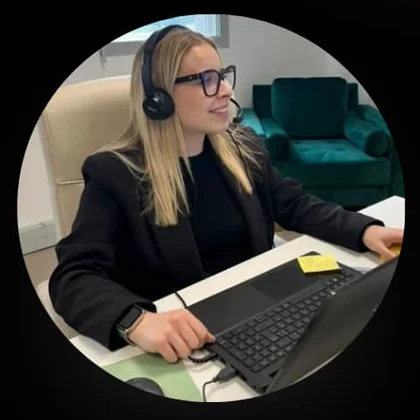
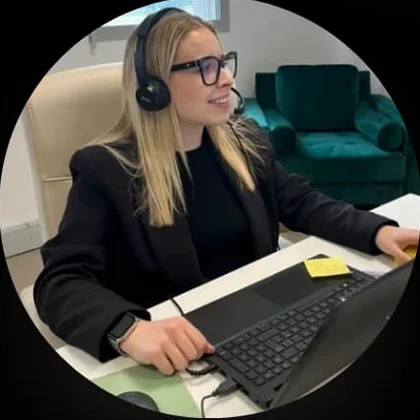
equipe : recadrage precis des 3 portraits (carres cales sur le diametre des cercles) + zoom 1.18, plus aucun residu de fond noir ; tailles mobile ajustees

diff --git a/lp-plombier-appel/index.html b/lp-plombier-appel/index.html
@@ -50,7 +50,7 @@
     .team__list .usp-check { background:rgba(3,197,184,.22); color:var(--color-primary); }
     .team__people { display:flex; align-items:center; justify-content:center; gap:16px; }
     .team__person { width:150px; height:150px; border-radius:50%; overflow:hidden; border:3px solid rgba(255,255,255,.14); box-shadow:0 14px 34px rgba(0,0,0,.45); flex-shrink:0; }
-    .team__person img { width:100%; height:100%; object-fit:cover; display:block; transform:scale(1.12); }
+    .team__person img { width:100%; height:100%; object-fit:cover; display:block; transform:scale(1.18); }
     .team__main { position:relative; flex-shrink:0; line-height:0; }
     .team__person--main { width:210px; height:210px; border-color:var(--color-primary); }
     .team__badge { position:absolute; right:0; bottom:6px; z-index:2; width:44px; height:44px; border-radius:50%; background:var(--color-quarternary); color:#fff; display:grid; place-items:center; border:3px solid var(--color-secondary); }
@@ -76,9 +76,10 @@
     @media (max-width: 860px) { .team__grid { grid-template-columns:1fr; gap:32px; } .adv-grid { grid-template-columns:1fr 1fr; } }
     @media (max-width: 700px) { .nav__tel-txt small { display:none; } .nav__tel-txt strong { font-size:16px; } }
     @media (max-width: 600px) {
-      .team__person { width:104px; height:104px; }
-      .team__person--main { width:142px; height:142px; }
-      .team__badge { width:34px; height:34px; }
+      .team__people { gap:10px; }
+      .team__person { width:86px; height:86px; border-width:2px; }
+      .team__person--main { width:116px; height:116px; }
+      .team__badge { width:30px; height:30px; border-width:2px; }
       .adv-grid { grid-template-columns:1fr; }
       .hero__layout { grid-template-columns:1fr; }
       .hero__intro, .hero__visual { min-width:0; }